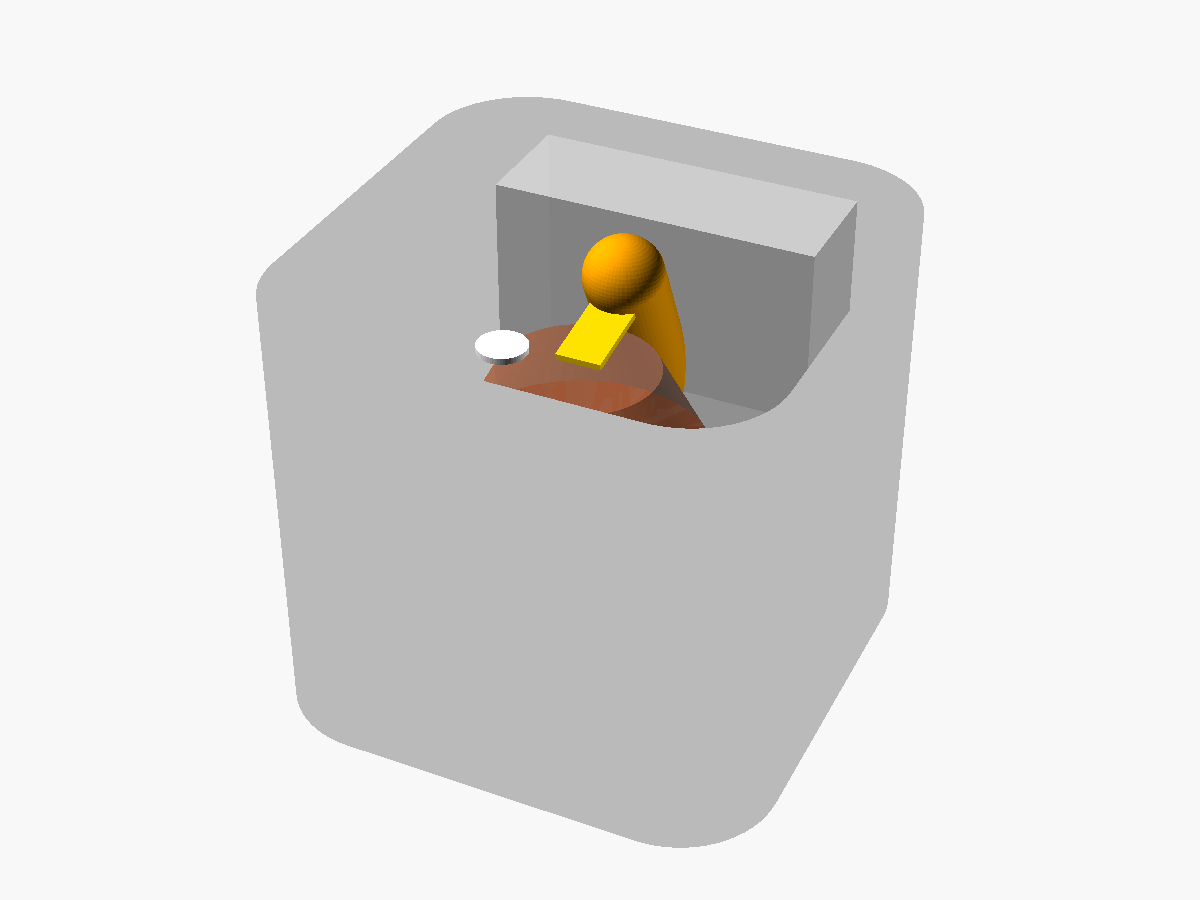
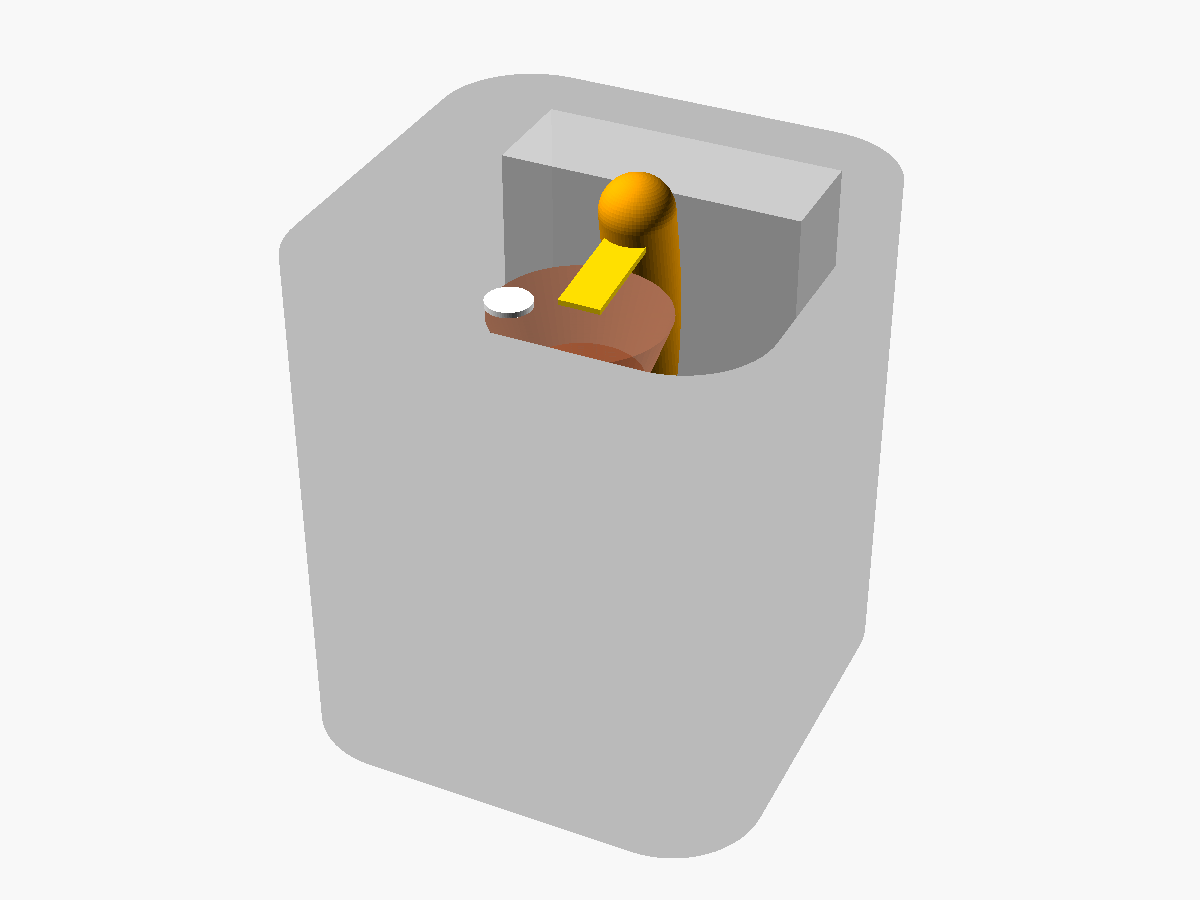
Dispositivo de mate: adaptar el diseño al mate camionero real
Medidas estimadas de las fotos (alto ~130 mm, virola ~95 mm, boca
~70 mm): el alto del equipo pasa a 200 mm, el mate apoya boca abajo
sobre la virola y la tolva sube a ~22 dosis. Se documentan ventajas y
complicaciones del mate camionero.

Claude-Session: https://claude.ai/code/session_01TeeeSKqFUnJPZGKavy33qM

diff --git a/dispositivo_mate/calculos/dosificador.py b/dispositivo_mate/calculos/dosificador.py
@@ -27,7 +27,7 @@ RPM_MOTOR = 100         # N20 con reductora 1:150 a ~3,7 V
 DOSIS_G = 8.0
 
 # --- Tolva del equipo (volumen aproximado del concepto) ---
-TOLVA_CM3 = 116 * 41 * 94 / 1000 * 0.9   # caja trasera, menos 10 % de esquinas
+TOLVA_CM3 = 116 * 41 * 134 / 1000 * 0.9  # equipo de 200 mm de alto   # caja trasera, menos 10 % de esquinas
 
 
 def main():

diff --git a/dispositivo_mate/docs/revision_tecnica.md b/dispositivo_mate/docs/revision_tecnica.md
@@ -9,9 +9,9 @@ Los números son **estimaciones de referencia**: hay que medirlos con tu mate y 
 
 ### 1. El mate probablemente no entra en 8 × 12 cm
 
-> **Actualización:** se adoptó la medida del SketchUp (176 × 176 mm) y el alto se subió a **160 mm**.
+> **Actualización:** se adoptó la medida del SketchUp (176 × 176 mm). Con el mate real (camionero, ~130 mm) el alto pasa a **200 mm**.
 > Con 133 mm entra un mate de 85 mm, pero no queda lugar para que el sinfín y el tobogán dejen la yerba **por encima** de la boca.
-> El modelo avisa en la consola si tu mate entra (`mate_alto`). Con 160 mm entra un mate de hasta **~91 mm** de alto.
+> El modelo avisa en la consola si tu mate entra (`mate_alto`). Regla: **alto del equipo ≈ alto del mate + 70 mm**.
 
 - Un mate de calabaza o de cerámica típico mide unos **7-9 cm de ancho y 8-11 cm de alto**.
 - Con paredes de 2,5 mm, un cilindro de 8 cm deja **~7,5 cm de diámetro interior**.
@@ -66,7 +66,7 @@ El plan lista **1 motor**, pero hay **dos mecanismos** (raspador y sinfín). Opc
 - 1 dosis de 8 g ≈ **27 cm³**.
 - Con ~44 cm² de sección interior (diámetro de 7,5 cm): **cada dosis ocupa ~0,6 cm de altura**.
 - **20 dosis (160 g) ≈ 530 cm³ ≈ 12 cm de altura de tolva.** En Ø80 no entra: una tolva lleva **3-5 dosis**.
-- **Con el tamaño nuevo** (176 × 176 × 160 mm), la tolva trasera tiene ~400 cm³ ≈ **15 dosis** (ver `calculos/dosificador.py`).
+- **Con el tamaño nuevo** (176 × 176 × 200 mm), la tolva trasera tiene ~570 cm³ ≈ **22 dosis** (ver `calculos/dosificador.py`).
 
 ### Depósito de residuos
 - La yerba usada absorbe agua: 8 g secos pueden ser **25-30 g húmedos** y unos **40-60 cm³**.
@@ -83,8 +83,32 @@ El plan lista **1 motor**, pero hay **dos mecanismos** (raspador y sinfín). Opc
 
 ---
 
+## El mate real (camionero)
+
+Según las fotos, el mate de referencia es un **camionero**: calabaza forrada (cuero o similar), **virola metálica ancha** con relieve y **base con patas**.
+
+| | Estimado de fotos | Medido |
+|---|---|---|
+| Alto total (base a borde de virola) | ~130 mm | ? |
+| Diámetro exterior de la virola | ~95 mm | ? |
+| Diámetro interior de la boca | ~70 mm | ? |
+| Alto de la virola | ~25 mm | ? |
+| Ancho de la base con patas | ~65 mm | ? |
+
+**Lo bueno para el diseño:**
+- **Boca ancha (~70 mm)**: las paletas de limpieza entran fácil, mucho mejor que en una calabaza de boca chica.
+- **Virola plana y rígida**: es el apoyo ideal para poner el mate **boca abajo**. El aro de apoyo se diseña para que la virola apoye en todo su borde.
+- **Base con patas**: boca arriba se queda firme para cargar la yerba.
+
+**Lo que complica:**
+- **Es alto**: por eso el equipo pasa a 200 mm de alto.
+- **Forro de cuero**: no debe mojarse ni rasparse. Las paletas trabajan solo por adentro y el aro de apoyo toca solo la virola.
+- **El borde de la virola junta yerba** (se ve en la foto, sobre todo en las letras en relieve). Conviene un **cepillo fijo** en el aro que limpie el borde mientras el rotor gira.
+- **Yerba con mucho polvo y palo**: probar el dosificador con esta yerba. El polvo puede pasar por la luz entre el sinfín y el tubo.
+- Hay mates camioneros de muchos tamaños: el aro de apoyo debería ser **intercambiable** (un aro por tamaño de virola).
+
 ## ✅ Qué falta
 
-1. **Medidas de tu mate**: diámetro de la boca, diámetro máximo, alto y material. Cargalas en `mate_*` del `.scad`.
+1. **Medir el mate con regla** (la tabla de arriba) y cargar las medidas en `mate_*` del `.scad`.
 2. **Imprimir y probar el dosificador** ([Fase 2](fase2_banco_dosificador.md)).
 3. Con los resultados, diseñar el **rotor de limpieza** (Fase 3) y probarlo con yerba húmeda.

diff --git a/dispositivo_mate/README.md b/dispositivo_mate/README.md
@@ -23,11 +23,16 @@ Plan de desarrollo del primer prototipo funcional.
 |---|---|---|---|
 | Forma | Cilindro | Caja con esquinas redondeadas | **Caja con esquinas redondeadas** |
 | Base | Ø 80 mm | 176 × 176 mm | **176 × 176 mm** |
-| Alto | 120 mm | 133 mm | **160 mm** (para que entre el tobogán de yerba) |
+| Alto | 120 mm | 133 mm | **200 mm** (para que entre un mate camionero y el tobogán de yerba) |
+
+### El mate de referencia
+
+Mate **camionero** con virola metálica ancha y base con patas (ver [revisión técnica](docs/revision_tecnica.md#el-mate-real-camionero)).
+Medidas **estimadas de fotos**: alto 130 mm, virola Ø95 mm, boca Ø70 mm. **Falta medirlo con regla.**
 
 ### Cómo funciona el concepto
 
-1. El mate entra **boca abajo** sobre un aro de apoyo.
+1. El mate entra **boca abajo**, apoyado sobre la **virola**.
 2. Un rotor con **paletas de silicona** entra por la boca y gira: la yerba usada cae al **cajón de residuos**.
 3. El LED avisa que hay que **dar vuelta el mate** (único paso manual del MVP).
 4. Con el mate **boca arriba**, el **sinfín inclinado** lleva yerba desde la tolva de atrás hasta un tobogán que la deja en la boca.

diff --git a/dispositivo_mate/docs/modelo_original.md b/dispositivo_mate/docs/modelo_original.md
@@ -38,7 +38,7 @@ También aparece la figura humana de ejemplo de SketchUp ("Ty"), que no es parte
 ## Qué se decidió
 
 - Se usa la **medida grande** del modelo (176 × 176 mm) en lugar de la del plan (Ø80 × 120 mm), porque en Ø80 no entra un mate.
-- El alto se subió de **133 a 160 mm** en el modelo paramétrico: con 133 mm no hay lugar para el tobogán de yerba sobre la boca del mate (ver [revisión técnica](revision_tecnica.md)).
+- El alto se subió de **133 a 200 mm** en el modelo paramétrico: con 133 mm no hay lugar para el tobogán de yerba sobre la boca, y el mate real (camionero, ~130 mm) necesita ~200 mm (ver [revisión técnica](revision_tecnica.md)).
 - Las dos medidas son parámetros (`caja_alto`, `caja_ancho`) en [`mecanica/dispositivo_mate.scad`](../mecanica/dispositivo_mate.scad).
 
 ## Para tener el modelo completo
